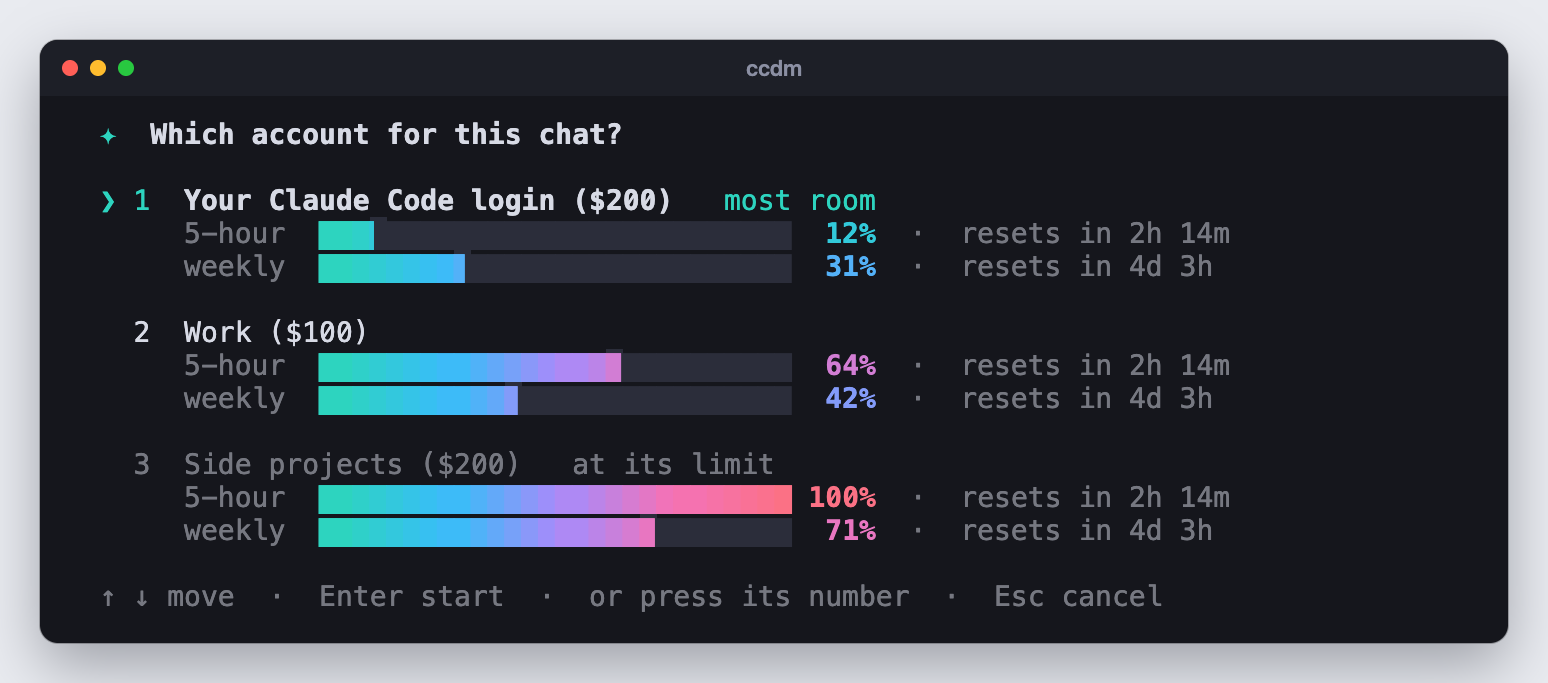
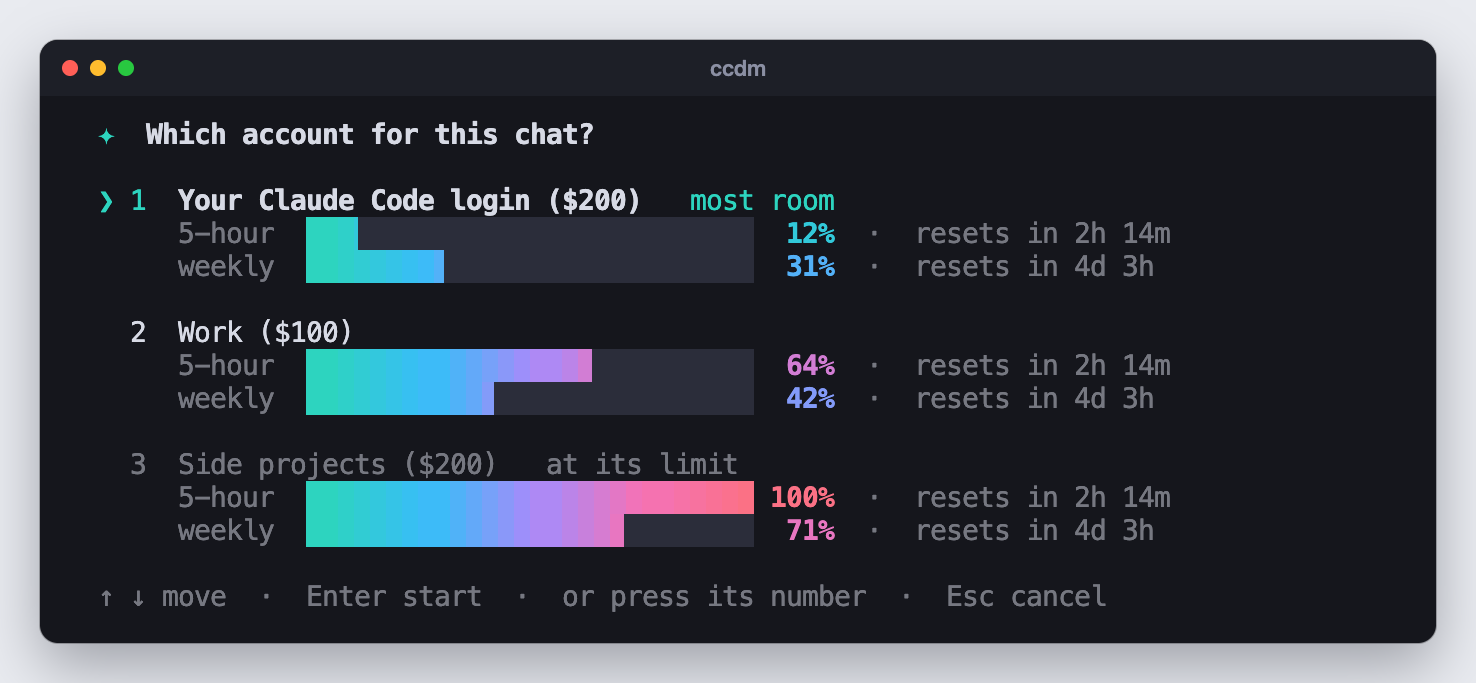
Review notes: screenshots drawn with the terminal's own block glyphs (no notch above the bars), caption says highlighted, demo cleans up and never signs in

diff --git a/docs/demo.py b/docs/demo.py
@@ -1,10 +1,11 @@
 """Runs the real ccd screens on made-up accounts and chats, for the README screenshots. Nothing is checked over the
 network, nothing starts, no real account or chat is read.
   python3 -I docs/demo.py ccdm | ccdr | setup | accounts"""
-import json, os, sys, tempfile, time
+import atexit, json, os, shutil, sys, tempfile, time
 from importlib.machinery import SourceFileLoader
 
 D = tempfile.mkdtemp(prefix='ccd-demo-')
+atexit.register(shutil.rmtree, D, True)
 os.environ.update(CCD_HOME=os.path.join(D, 'config'), CCD_TOKEN_STORE='file', CCD_DRY_RUN='1')
 ccd = SourceFileLoader('ccd', os.path.join(os.path.dirname(os.path.abspath(__file__)), '..', 'ccd')).load_module()
 now = time.time()
@@ -29,6 +30,7 @@ def ping(a):
 
 
 ccd.accounts, ccd.ping = accounts, ping
+ccd.setup_token = lambda cols: []  # "Add one" in the demo never runs a sign-in
 ccd.login = lambda: dict(key='main', label=DEMO[0][1], token='demo', plan=200, expired=False)
 ccd.added = lambda: [(k, l, p) for k, l, p, *_ in DEMO[1:]]
 

diff --git a/README.md b/README.md
@@ -30,7 +30,7 @@ Some tasks are really long and need the usage of a $200 plan, not a $100 one. So
 
 And sometimes I just want to pick the account myself. So I added `ccdm` (m = manual).
 
-<img src="docs/ccdm.png" width="760" alt="ccdm: your accounts with their 5-hour and weekly limits; the one with the most room is picked, a full one is greyed out">
+<img src="docs/ccdm.png" width="760" alt="ccdm: your accounts with their 5-hour and weekly limits; the one with the most room is highlighted, a full one is greyed out">
 
 For the rare time I want to move a chat by hand, there's `ccdr` (r = resume): pick the chat, then the account.
 
